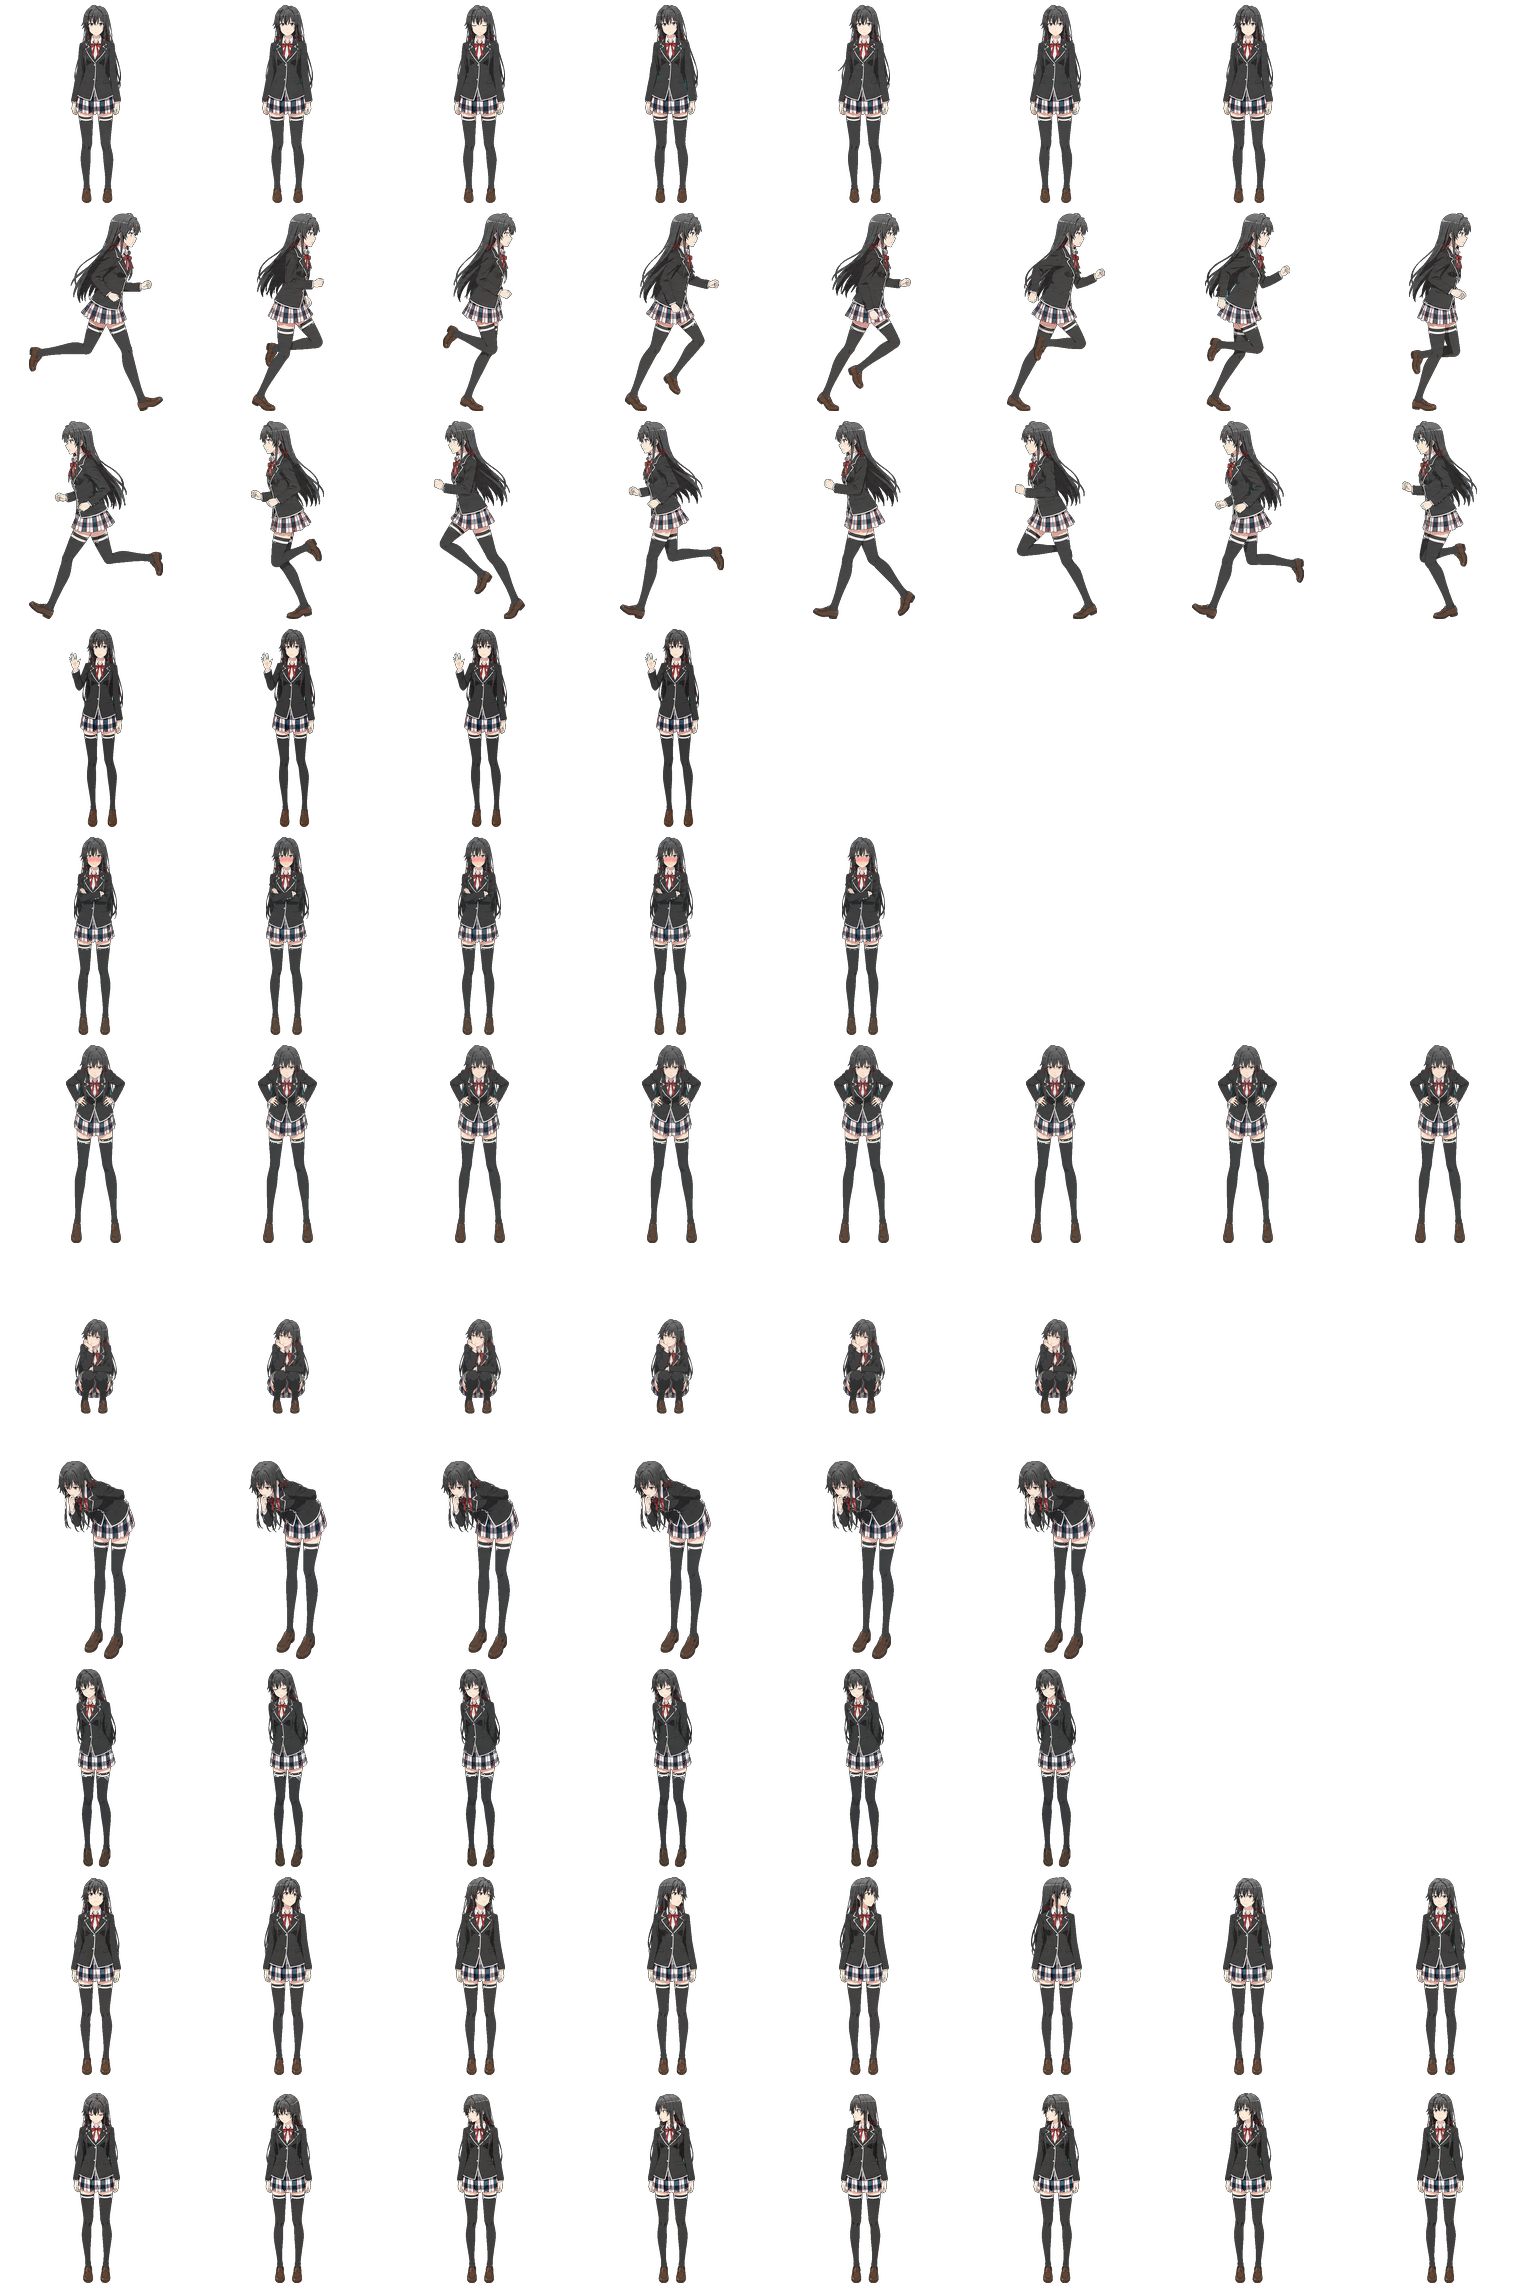
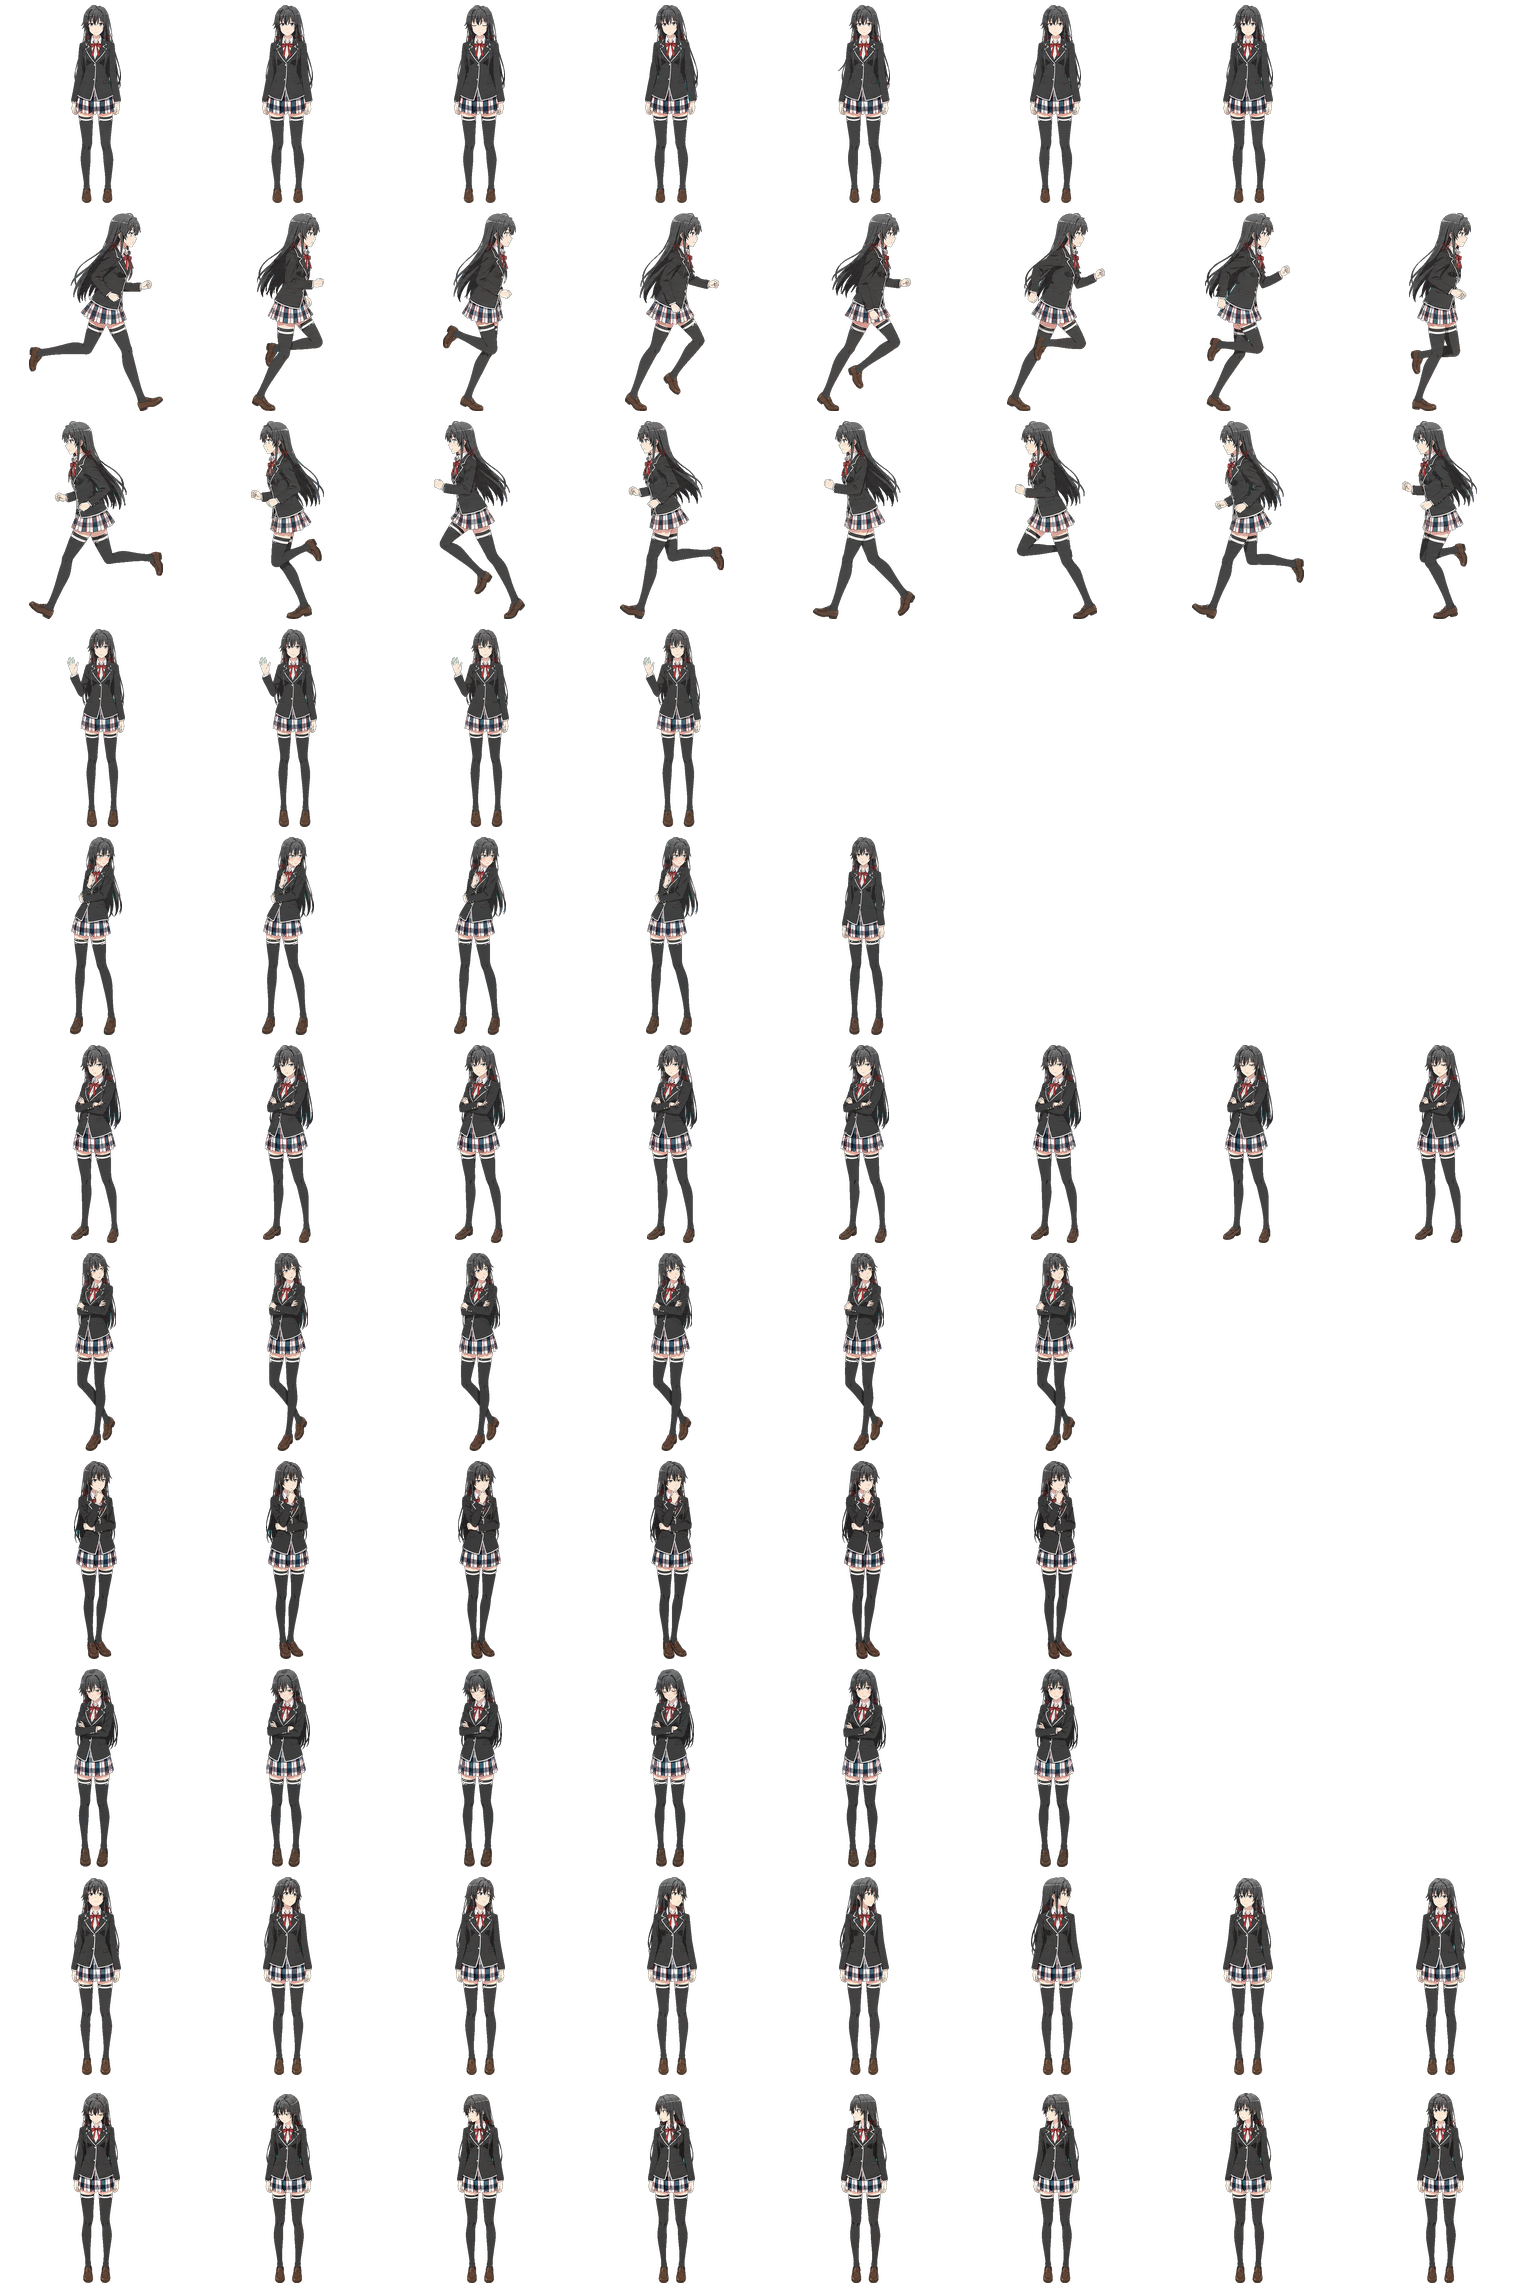
feat: upgrade action rows to Option C micro-dynamics living pose holds

diff --git a/CHANGELOG.md b/CHANGELOG.md
@@ -10,10 +10,8 @@ Versioning for repository releases; the installed pet id remains
 
 ### Changed
 
-- Re-authored all six event-action rows into single slow pose holds with subtle sustained motion, eliminating rapid repetitive multi-looping when played under Codex's three-repeat rule.
-- Slowed perceived action pacing by extending key hold frames and smoothing transitions across row 3 (waving), row 4 (hover), row 5 (failed), row 6 (waiting), row 7 (working), and row 8 (review).
-- Re-rendered all preview GIFs and contact sheet to reflect the slow single-action pose holds.
-
+- Upgraded action rows 3–8 to Option C micro-dynamics pose holds: actions instantly enter key poses and hold continuous state without repetitive loop motion, enriched by natural eye blinks, breathing shifts, and subtle gaze micro-movement.
+- Re-rendered all preview GIFs and contact sheet with 220ms slow frame durations to match the refined living hold dynamics.
 
 ## [1.3.0] - 2026-07-20
 
